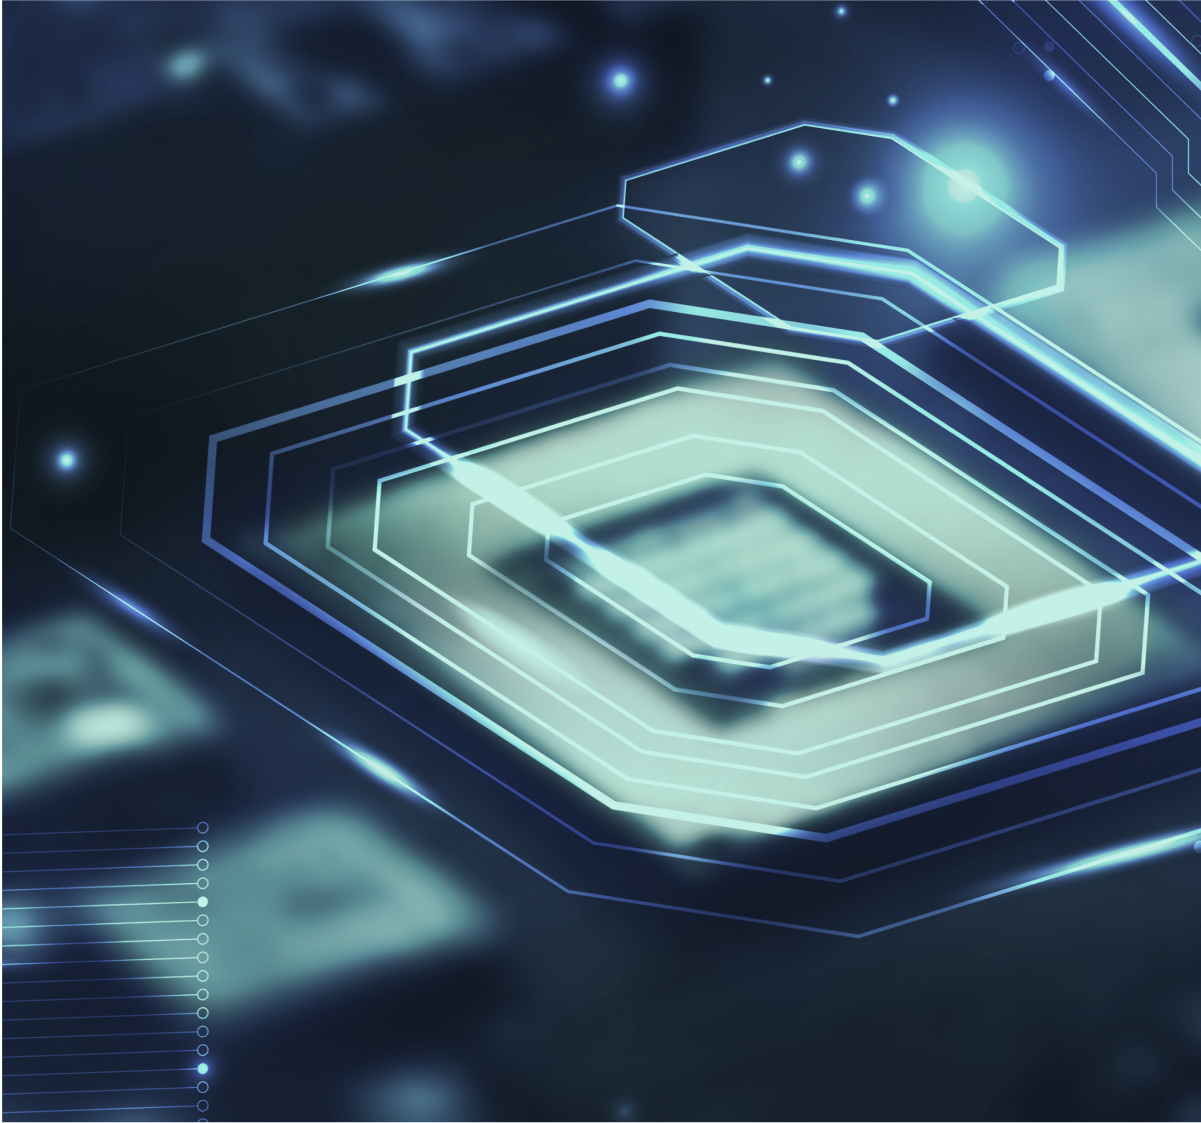
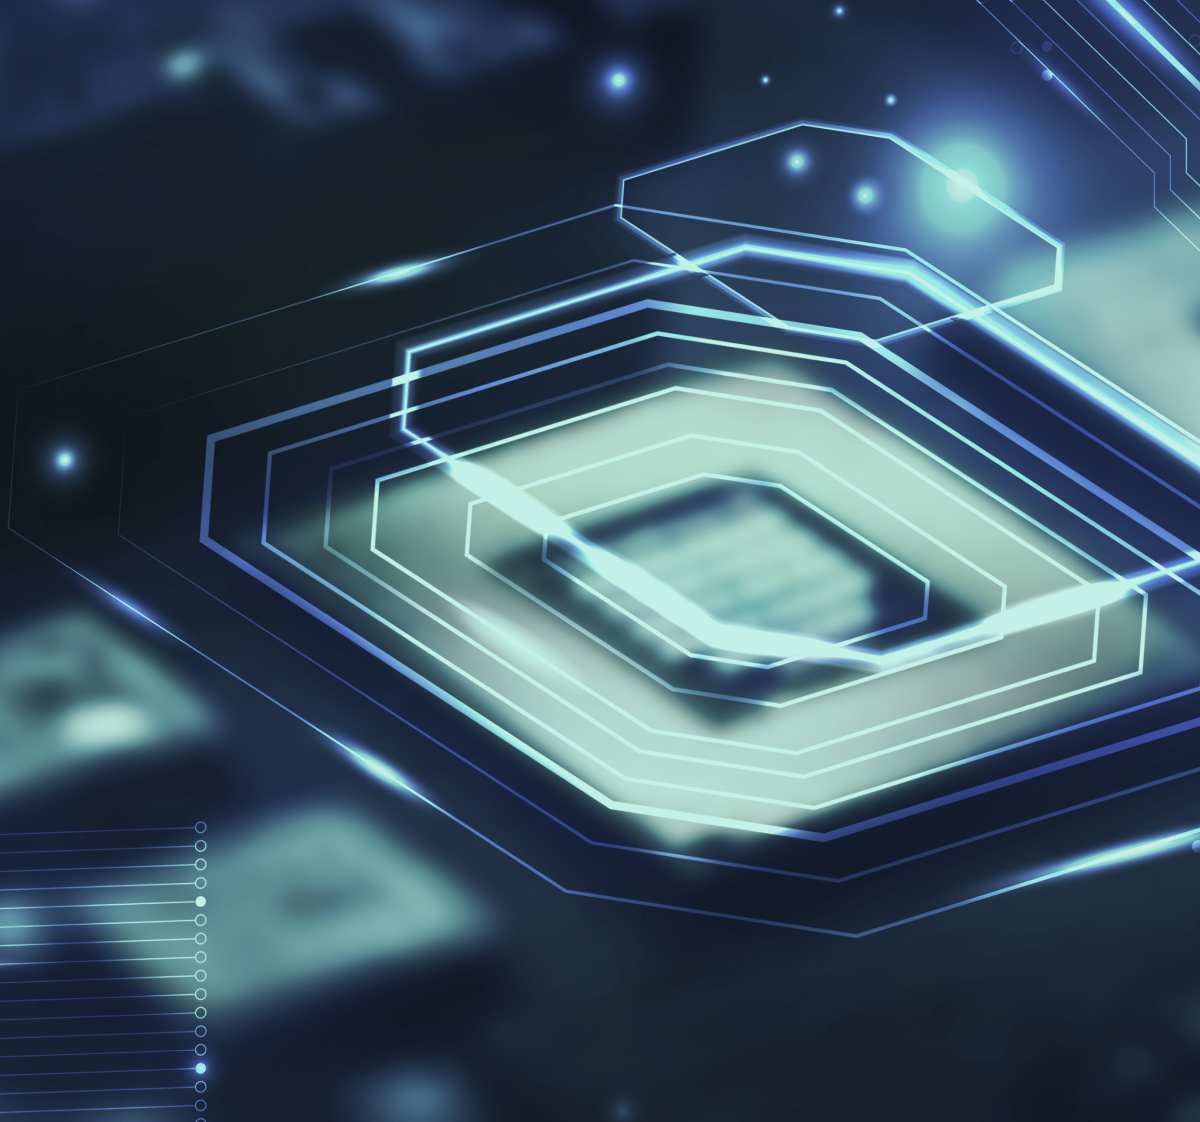
business_2

diff --git a/src/scss/_sub_business.scss b/src/scss/_sub_business.scss
@@ -201,7 +201,7 @@ section.product_set{
                     width:246px;
                     font-size:20px;
                     line-height:1.6;
-                    font-family:'lexend-Medium',sans-serif;
+                    font-family:'lexend-regular',sans-serif;
                 }
                 th:nth-of-type(2){
                     color:#807F7F;

diff --git a/public/css/style.css b/public/css/style.css
@@ -1479,7 +1479,7 @@ section.product_set img {
   width: 246px;
   font-size: 20px;
   line-height: 1.6;
-  font-family: "lexend-Medium", sans-serif;
+  font-family: "lexend-regular", sans-serif;
 }
 .container section.product_function table tr:nth-of-type(1) th:nth-of-type(2) {
   color: #807F7F;
